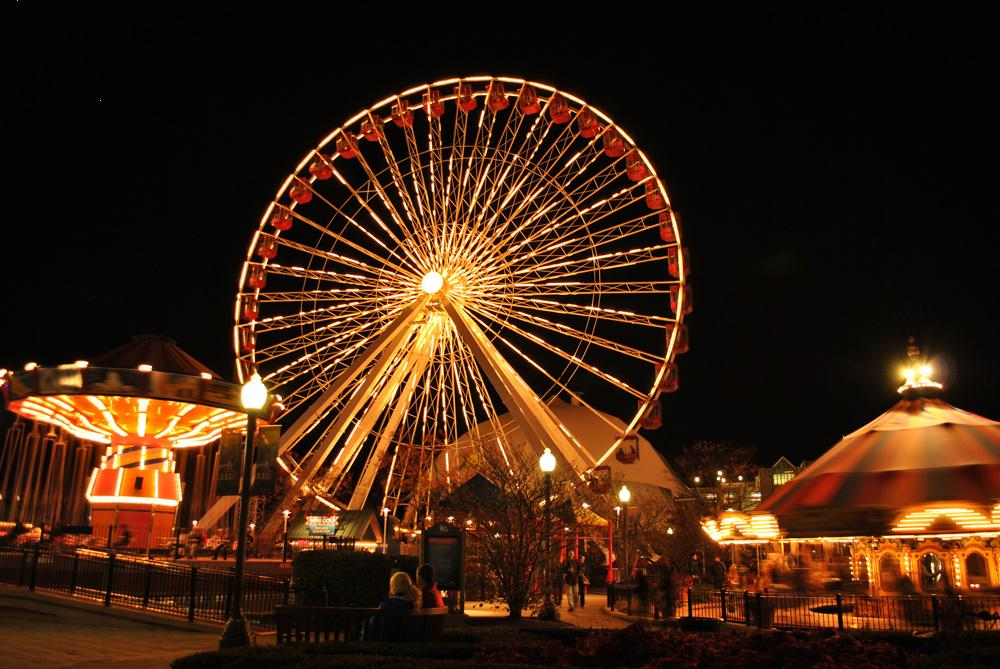
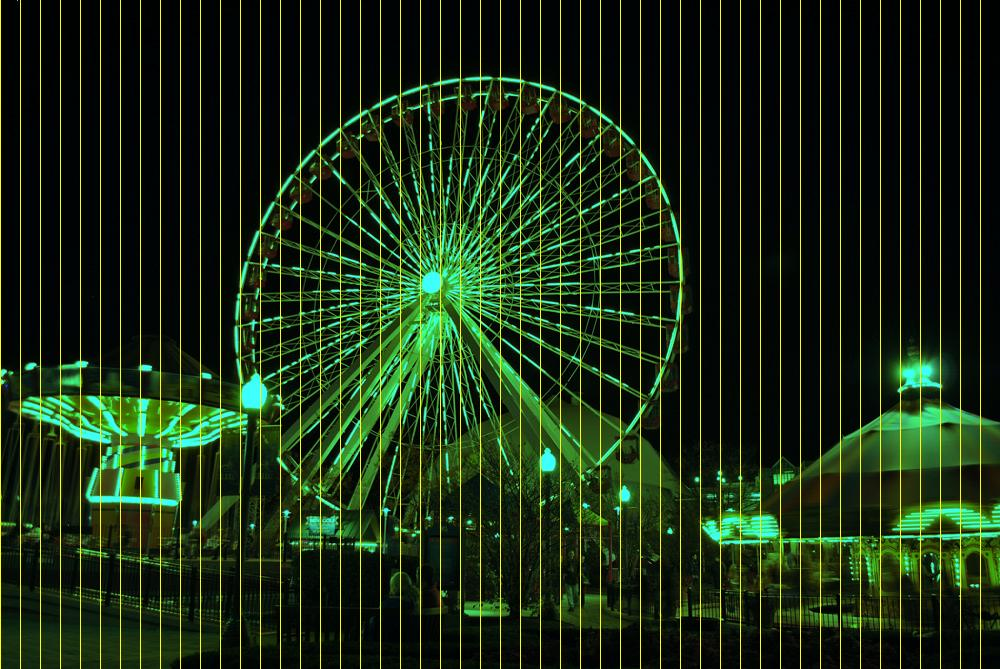
Started color labs

diff --git a/ColorLabs17/ColorLabs.java b/ColorLabs17/ColorLabs.java
@@ -1,0 +1,48 @@
+
+/**
+ * Write a description of class ColorLabs here.
+ *
+ * @author (your name)
+ * @version (a version number or a date)
+ */
+import java.awt.*;//acsesses color class in awt library
+import java.util.*; // * lets you import everything
+import java.util.List; // resolves problem with java.awt.List and java.util.List
+public class ColorLabs
+{
+    public static void main(String[] args)
+    {
+        Picture beach = new Picture("images\\beach.jpg");
+        Picture grove = new Picture("images\\gorge.jpg");
+        Picture temple = new Picture("images\\temple.jpg");
+        Picture arch = new Picture("images\\arch.jpg");
+        Picture forest = new Picture("images\\CumberlandIsland.jpg");
+        Picture cat = new Picture("images\\kitten2.jpg");
+        //beach.explore();
+        //grove.explore();
+        //temple.explore();
+        //arch.explore();
+        //forest.explore();
+        //cat.explore();
+        
+        Pixel [] pixels1; //creates array
+        pixels1 = beach.getPixels(); // puts all the pixels inside the array
+        int negate;
+        for (Pixel spot1 : pixels1) // beach
+        {
+            negate = spot1.getRed();
+            negate = (int)(255-negate);
+            spot1.setRed(negate);
+            negate = spot1.getBlue();
+            negate = (int)(255-negate);
+            spot1.setBlue(negate);
+            negate = spot1.getGreen();
+            negate = (int)(255-negate);
+            spot1.setGreen(negate);
+            
+        }
+        beach.explore();
+        
+        /**/
+    }
+}

diff --git a/ColorLabs17/TestPicture17.java b/ColorLabs17/TestPicture17.java
@@ -35,7 +35,7 @@ public class TestPicture17
      Picture ferris3 = new Picture("images/2000 ferris wheel2.jpg");
 
      //apic.explore(); //!!!!!!!!!!!!!!!!! DISPLAYS the picture
-     ferris1.explore();
+     //ferris1.explore();
     //gorge.explore();
      
      //to chnage color of picture get all of the pixels
@@ -67,21 +67,42 @@ public class TestPicture17
     //need to re-explore everytime
     spot.setColor(Color.yellow);
   //  spot2.setColor(Color.grey);
-    ferris1.explore();
+    //ferris1.explore();
     
 /*
     pixels[17].setColor(Color.blue);
     spot.setColor(new Color(252,252,252));
     pixels[500034].setColor(Color.blue);
     ferris1.explore();
-/*
+/**/
+
    // loop to access indexes of array or collection
-
     //for each loop spot  is a ?
-    for (Pixel spot : pixels)
-    System.out.println( spot );
-
-
+    int red;
+    for (Pixel spot1 : pixels) //this changed the color of red ,utiplied by .25
+    {
+        //System.out.println(spot1);
+        red=spot1.getRed();
+        red = (int)(red*.25);
+        spot1.setRed(red);
+    }
+    //ferris1.explore();
+    int green;
+    int count = 0;
+    for (Pixel colorspot : pixels) 
+    {
+        if (count%20 ==0)
+        {
+            colorspot.setColor(Color.yellow);
+        }
+        count++;
+        /**
+        green = colorspot.getGreen();
+        green = (int)(green*.5);
+        colorspot.setGreen(green);
+        /**/
+    }
+    ferris1.explore();
    
  /**/
 
